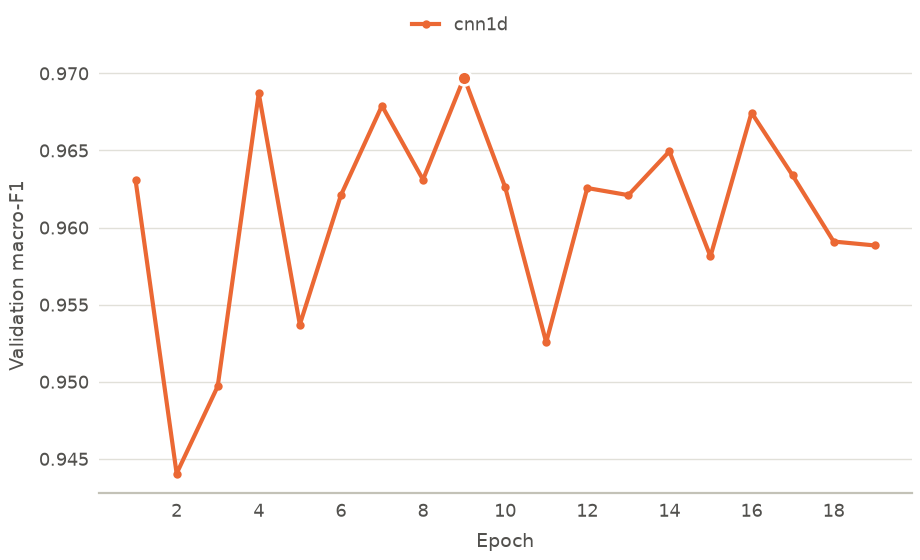
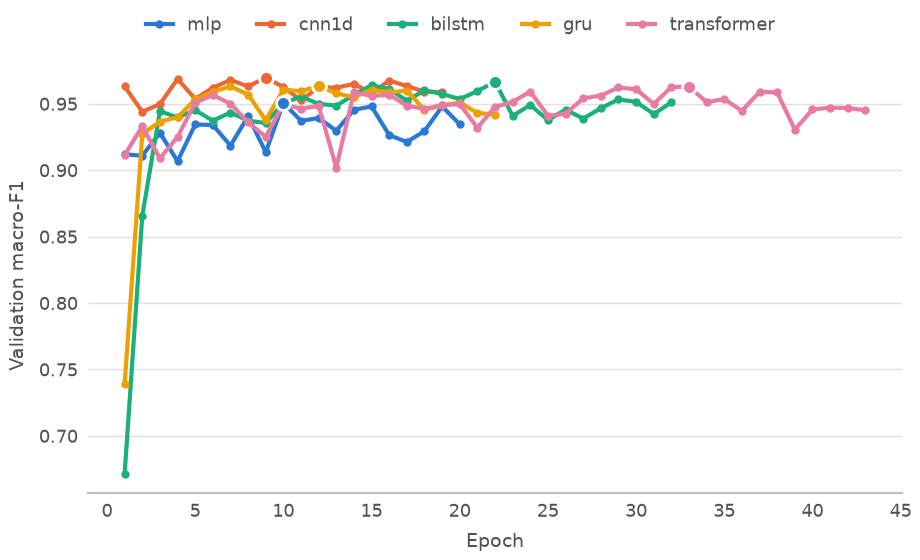
exp: regenerate results summary
All five models now have one full run each (mlp, cnn1d, bilstm, gru,
transformer). Generated by make_results_table.py and plot_curves.py;
each row is the model's run with the best validation macro-F1.

diff --git a/README.md b/README.md
@@ -76,13 +76,15 @@ Preliminary, untuned, single-seed results. This block is generated by `scripts/m
 
 <!-- RESULTS:START -->
 <!-- Generated by scripts/make_results_table.py from results/<model>/<run_id>/metrics.json. Do not edit by hand. -->
-Preliminary interim results: untuned, single seed (42), shared protocol. For each model the full run with the best validation macro-F1 is shown; its restored best checkpoint was evaluated once on the test split. Training time and latency were measured on each member's own machine (see Hardware), so they are not directly comparable across rows.
+Preliminary interim results: untuned, single seed (42), shared protocol. For each model the full run with the best validation macro-F1 is shown; its restored best checkpoint was evaluated once on the test split. All runs shown report the same hardware (GPU NVIDIA GeForce RTX 4060 Laptop GPU, CPU AMD Ryzen 7 7840HS w/ Radeon 780M Graphics), so training time and latency are comparable across rows.
 
 | Model | Run by | Representation | Params | Val Acc | Val Macro-F1 | Test Acc | Test Macro-F1 | Best epoch | Train time (s) | CPU latency bs=1 (ms) | Hardware | Runs | Run ID |
 |---|---|---|---|---|---|---|---|---|---|---|---|---|---|
+| mlp | Mayank Kejariwal | features | 178,310 | 94.94% | 0.951 | 93.86% | 0.939 | 10 | 4.6 | 0.078 | GPU NVIDIA GeForce RTX 4060 Laptop GPU, CPU AMD Ryzen 7 7840HS w/ Radeon 780M Graphics | 1 | 20261004-192135_7a7e7a3 |
 | cnn1d | Ishan Abhijit Saraf | raw | 197,702 | 96.63% | 0.970 | 93.89% | 0.941 | 9 | 7.9 | 0.484 | GPU NVIDIA GeForce RTX 4060 Laptop GPU, CPU AMD Ryzen 7 7840HS w/ Radeon 780M Graphics | 1 | 20261004-185204_9466717 |
-
-No full run yet: mlp, transformer.
+| bilstm | Addyan Kumar | raw | 138,502 | 96.34% | 0.967 | 91.38% | 0.915 | 22 | 11.3 | 0.985 | GPU NVIDIA GeForce RTX 4060 Laptop GPU, CPU AMD Ryzen 7 7840HS w/ Radeon 780M Graphics | 1 | 20261004-194812_134ae8c |
+| gru | Addyan Kumar | raw | 104,070 | 96.00% | 0.963 | 89.55% | 0.895 | 12 | 7.4 | 6.225 | GPU NVIDIA GeForce RTX 4060 Laptop GPU, CPU AMD Ryzen 7 7840HS w/ Radeon 780M Graphics | 1 | 20261004-194905_134ae8c |
+| transformer | Mayank Kejariwal | raw | 159,302 | 96.00% | 0.963 | 90.16% | 0.902 | 33 | 33.5 | 1.323 | GPU NVIDIA GeForce RTX 4060 Laptop GPU, CPU AMD Ryzen 7 7840HS w/ Radeon 780M Graphics | 1 | 20261004-192550_00d9884 |
 <!-- RESULTS:END -->
 
 ## AI assistance

diff --git a/results/summary.md b/results/summary.md
@@ -1,8 +1,10 @@
 <!-- Generated by scripts/make_results_table.py from results/<model>/<run_id>/metrics.json. Do not edit by hand. -->
-Preliminary interim results: untuned, single seed (42), shared protocol. For each model the full run with the best validation macro-F1 is shown; its restored best checkpoint was evaluated once on the test split. Training time and latency were measured on each member's own machine (see Hardware), so they are not directly comparable across rows.
+Preliminary interim results: untuned, single seed (42), shared protocol. For each model the full run with the best validation macro-F1 is shown; its restored best checkpoint was evaluated once on the test split. All runs shown report the same hardware (GPU NVIDIA GeForce RTX 4060 Laptop GPU, CPU AMD Ryzen 7 7840HS w/ Radeon 780M Graphics), so training time and latency are comparable across rows.
 
 | Model | Run by | Representation | Params | Val Acc | Val Macro-F1 | Test Acc | Test Macro-F1 | Best epoch | Train time (s) | CPU latency bs=1 (ms) | Hardware | Runs | Run ID |
 |---|---|---|---|---|---|---|---|---|---|---|---|---|---|
+| mlp | Mayank Kejariwal | features | 178,310 | 94.94% | 0.951 | 93.86% | 0.939 | 10 | 4.6 | 0.078 | GPU NVIDIA GeForce RTX 4060 Laptop GPU, CPU AMD Ryzen 7 7840HS w/ Radeon 780M Graphics | 1 | 20261004-192135_7a7e7a3 |
 | cnn1d | Ishan Abhijit Saraf | raw | 197,702 | 96.63% | 0.970 | 93.89% | 0.941 | 9 | 7.9 | 0.484 | GPU NVIDIA GeForce RTX 4060 Laptop GPU, CPU AMD Ryzen 7 7840HS w/ Radeon 780M Graphics | 1 | 20261004-185204_9466717 |
-
-No full run yet: mlp, transformer.
+| bilstm | Addyan Kumar | raw | 138,502 | 96.34% | 0.967 | 91.38% | 0.915 | 22 | 11.3 | 0.985 | GPU NVIDIA GeForce RTX 4060 Laptop GPU, CPU AMD Ryzen 7 7840HS w/ Radeon 780M Graphics | 1 | 20261004-194812_134ae8c |
+| gru | Addyan Kumar | raw | 104,070 | 96.00% | 0.963 | 89.55% | 0.895 | 12 | 7.4 | 6.225 | GPU NVIDIA GeForce RTX 4060 Laptop GPU, CPU AMD Ryzen 7 7840HS w/ Radeon 780M Graphics | 1 | 20261004-194905_134ae8c |
+| transformer | Mayank Kejariwal | raw | 159,302 | 96.00% | 0.963 | 90.16% | 0.902 | 33 | 33.5 | 1.323 | GPU NVIDIA GeForce RTX 4060 Laptop GPU, CPU AMD Ryzen 7 7840HS w/ Radeon 780M Graphics | 1 | 20261004-192550_00d9884 |
